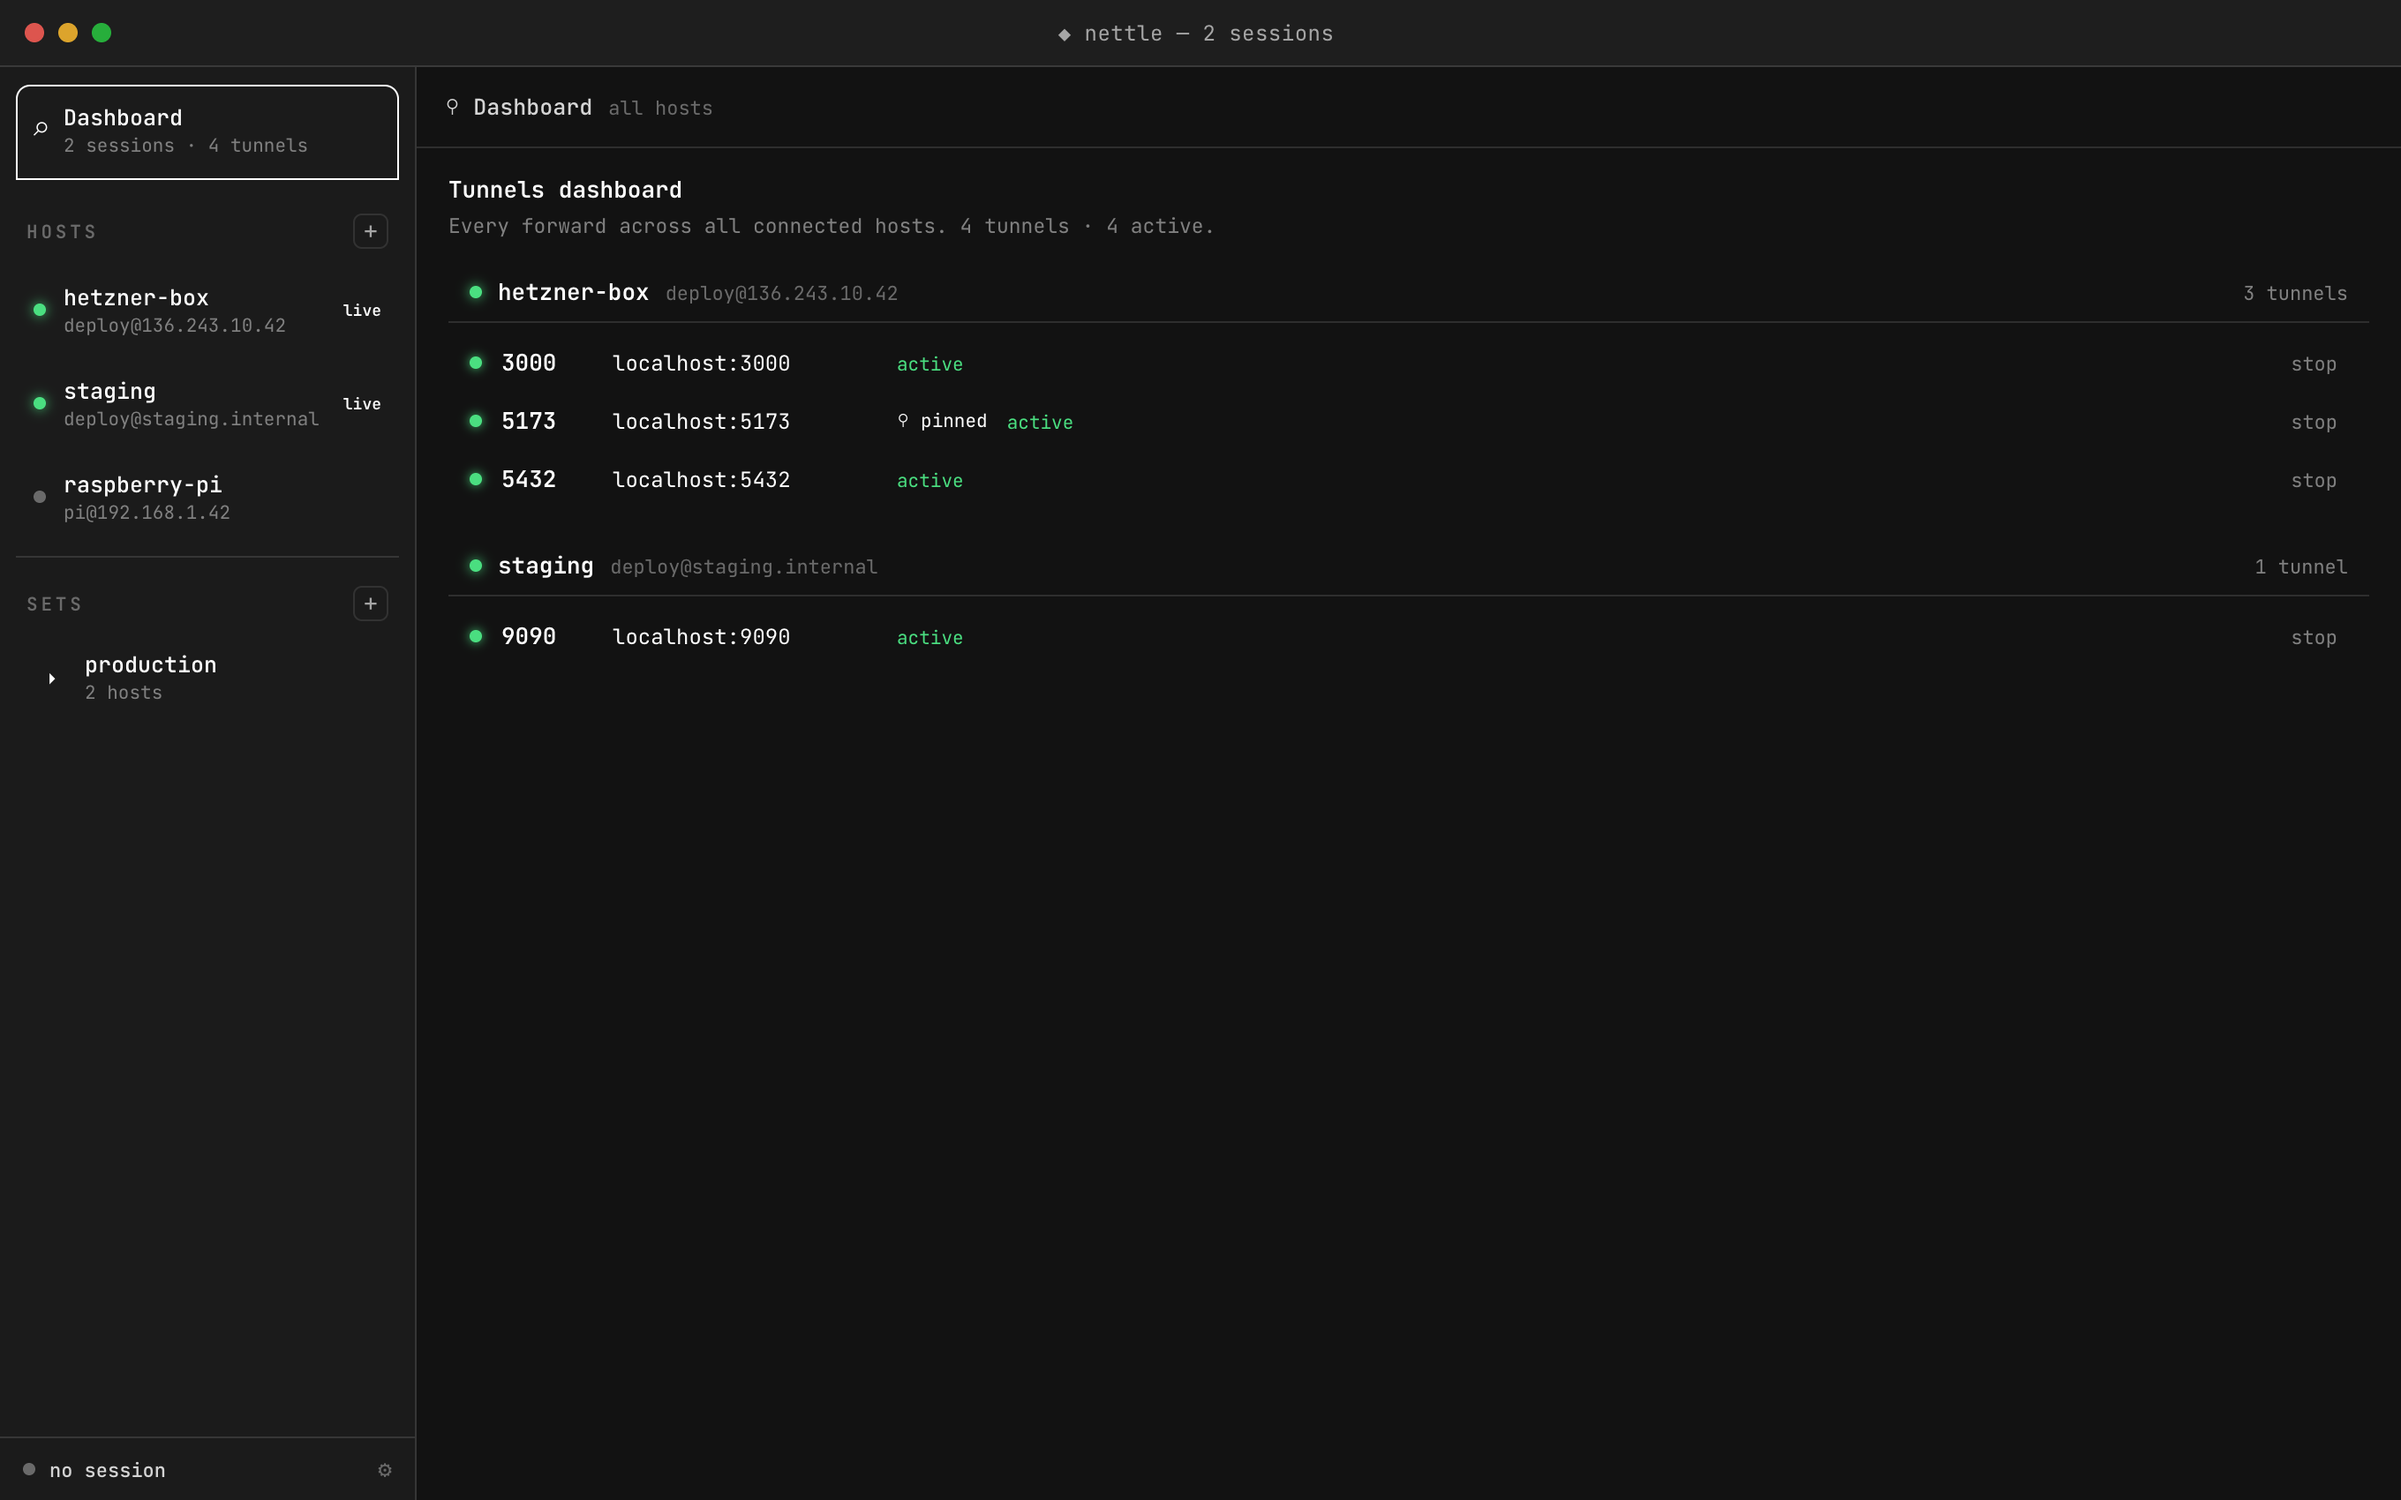
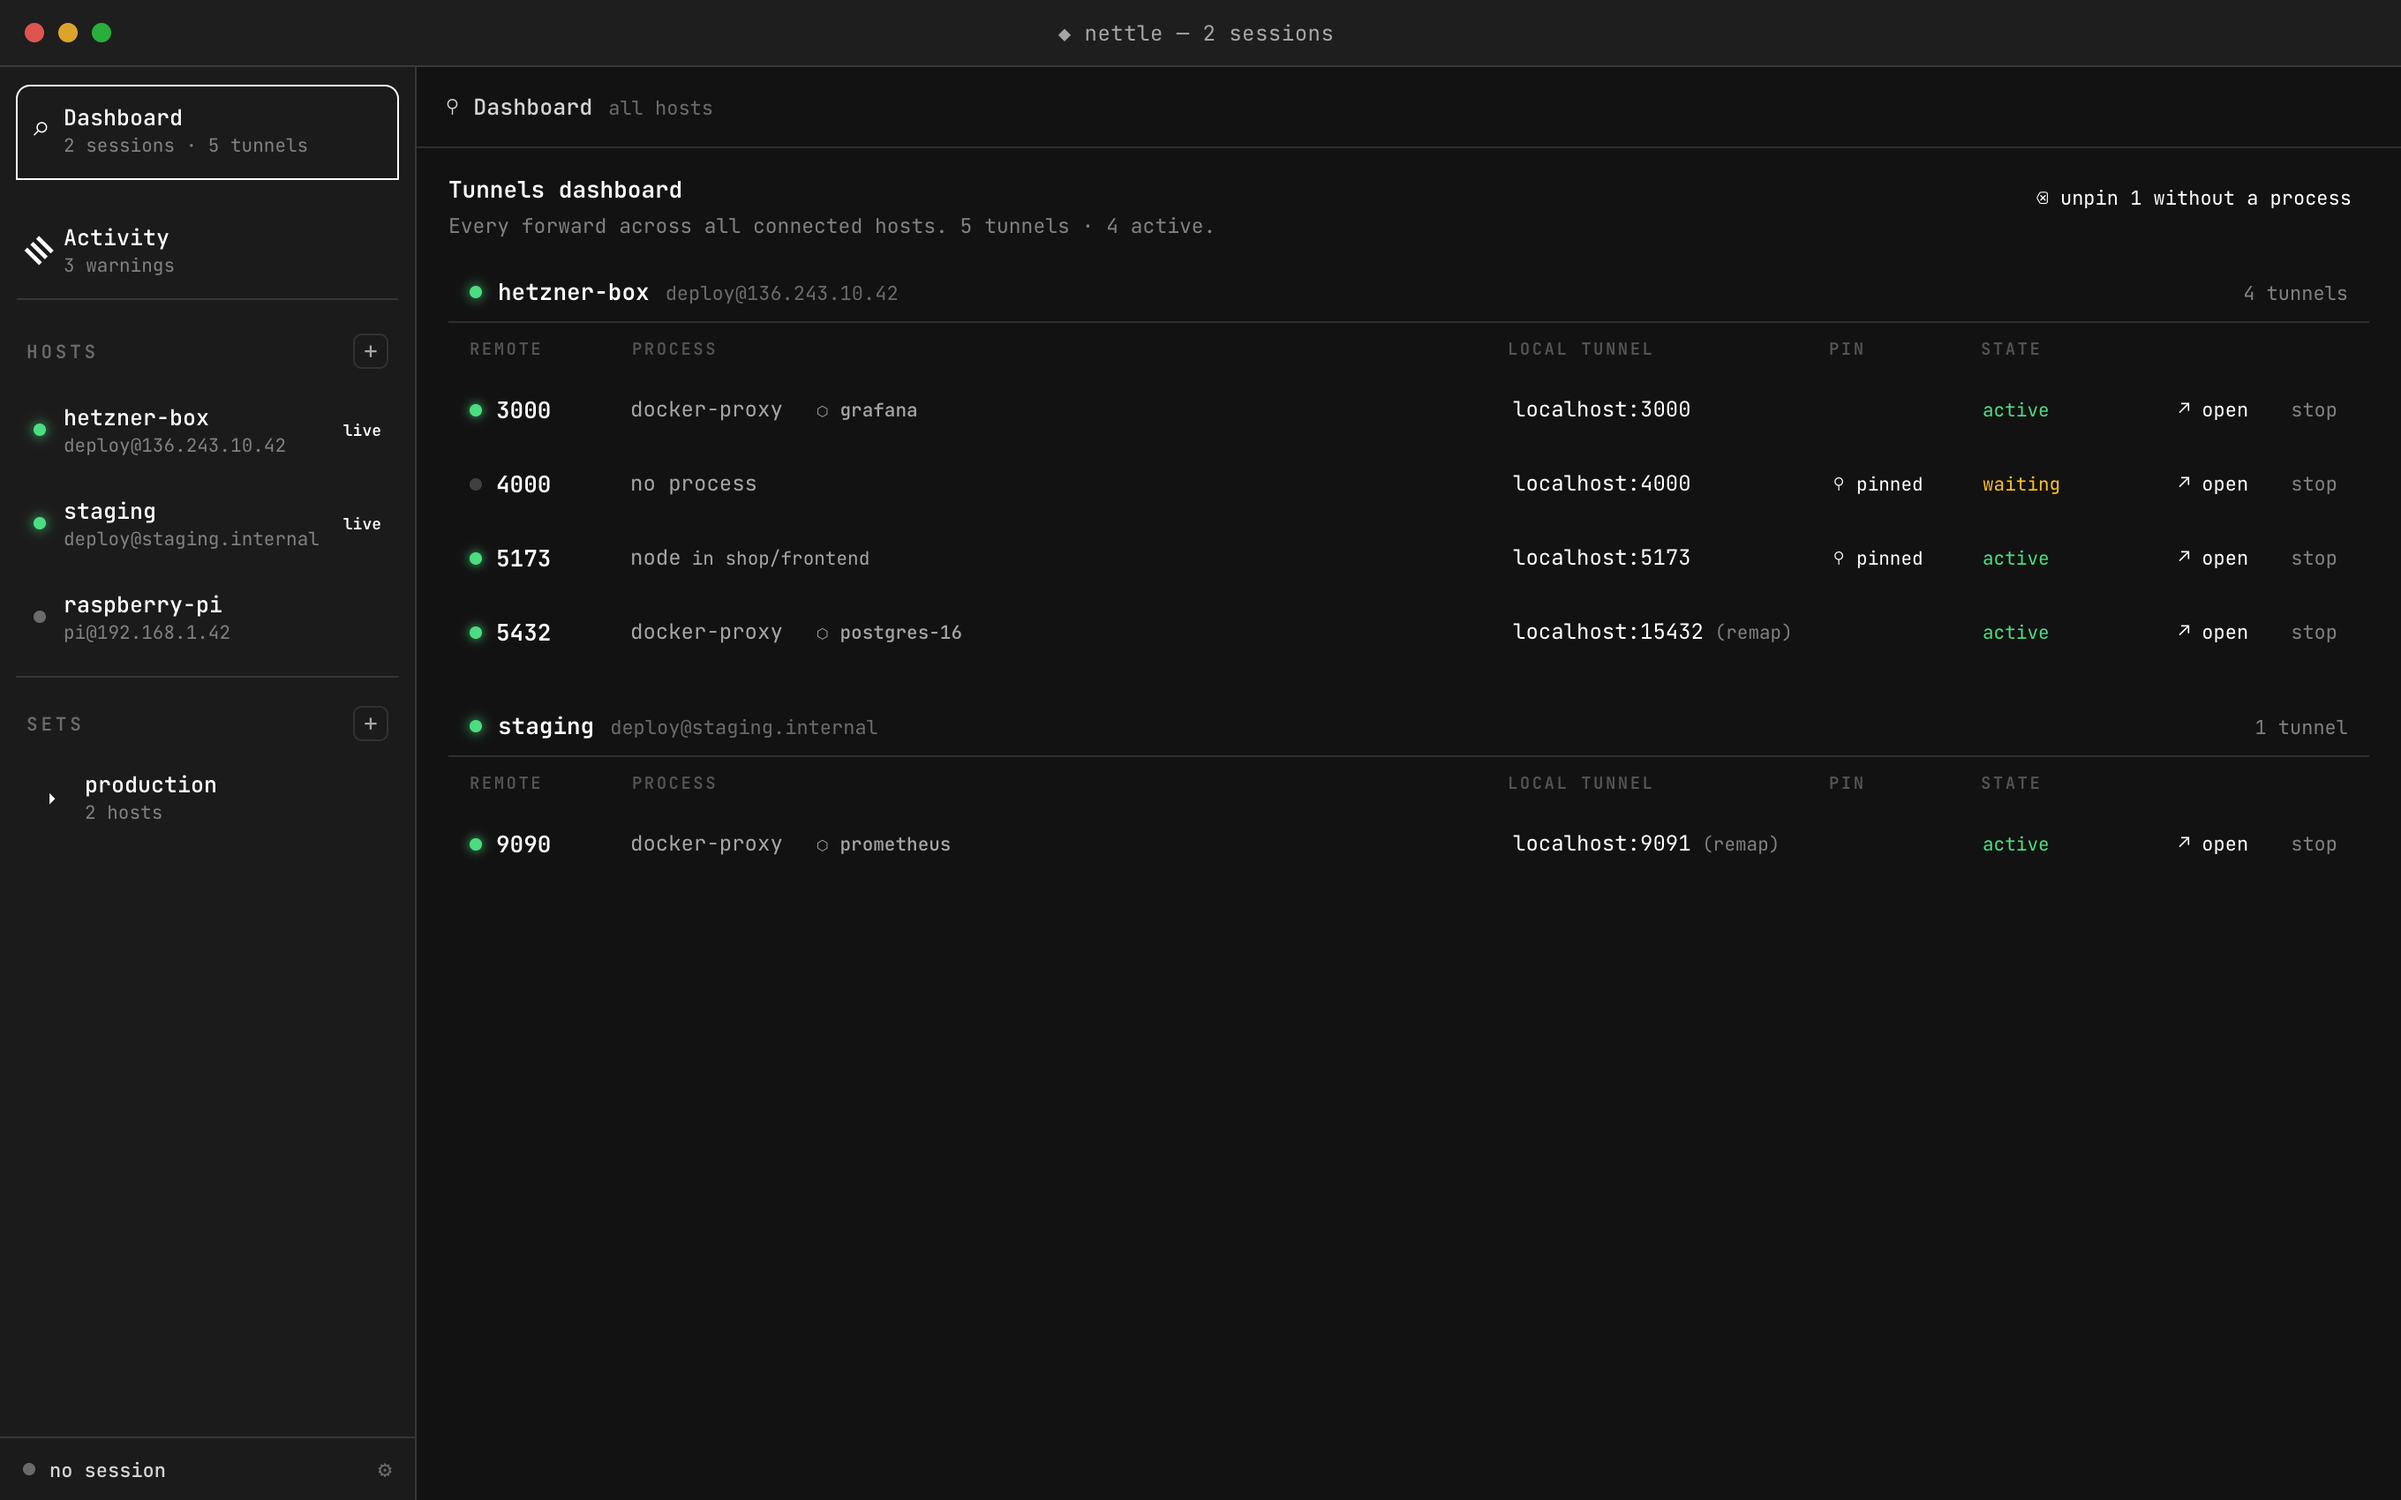
Refresh README screenshots for the new port tooling
Recaptured all shots showing the three-state ports table (state chips,
process working dirs, kill actions, labeled pin toggle), the tabular
dashboard with process info and open/stop, and a new activity-log
screenshot; README copy updated to match. Also widens the ports state
column so the "waiting for process" chip no longer overflows into the
tunnel column.

diff --git a/src/styles.css b/src/styles.css
@@ -2064,7 +2064,8 @@ body {
 
 /* ===== three-state ports table ===== */
 .pcol-state {
-  width: 128px;
+  /* fits the widest chip ("waiting for process") without overflowing */
+  width: 150px;
   flex: none;
 }
 .state-chip {

diff --git a/README.md b/README.md
@@ -5,14 +5,16 @@
 [![CI](https://github.com/gitu/nettle/actions/workflows/ci.yml/badge.svg)](https://github.com/gitu/nettle/actions/workflows/ci.yml)
 [![Release](https://github.com/gitu/nettle/actions/workflows/release.yml/badge.svg)](https://github.com/gitu/nettle/releases)
 
-![Port forwarding view: live remote ports with process names and docker container badges, a pinned tunnel, and one-click forwards](assets/screenshots/ports.png)
+![Port forwarding view: every remote port in one table with state chips (open on host / forwarded / waiting for process), process names with working directories and docker container badges, pinned tunnels, and kill/open/pin/forward actions](assets/screenshots/ports.png)
 
 nettle is a cross-platform desktop SSH client (macOS / Linux / Windows) built for
 day-to-day work against remote dev boxes:
 
 - **Live port discovery** — nettle watches which TCP ports are listening on the
-  remote (process name included) and shows them the moment they appear. A new
-  dev server pops a toast: *Forward & pin / Just once / Ignore*.
+  remote (process name and working directory included, so two `node` servers
+  are easy to tell apart) and shows them the moment they appear. A new dev server
+  pops a toast: *Forward & pin / Just once / Ignore*. Need the port back? Kill
+  the remote process right from the row (SIGTERM, or SIGKILL if it insists).
 - **Pinned tunnels that survive everything** — a pinned forward keeps its local
   listener alive across remote process restarts *and* SSH reconnects. Kill your
   remote `vite dev`, start it again, and `localhost:5173` just works — no clicks.
@@ -27,16 +29,21 @@ day-to-day work against remote dev boxes:
   keeps its own live terminal, tunnels, and transfers. Switching hosts leaves
   the others running (toggle off in About if you prefer one-at-a-time).
 - **Tunnels dashboard** — one overview of every forward across every connected
-  host, grouped by host, with live/waiting status and quick stop.
+  host, grouped by host, with process info, live/waiting status, open-in-browser
+  and quick stop — plus one-click cleanup of pins whose process is gone.
+- **Activity log** — an in-app log of everything nettle does (connections,
+  tunnels, port scans, kills), filterable by host and severity. Bind conflicts
+  surface as actionable errors with a known-free port to use instead.
 - **Connection sets** — name a group of hosts and bring them all up with one
   click (e.g. "production" = api + db + cache).
 - **Tray-first** — closing the window hides nettle to the menu bar / system
   tray; sessions and every pinned tunnel keep running in the background.
 
 <p>
-  <img alt="Real PTY terminal" src="assets/screenshots/terminal.png" width="32.8%" />
-  <img alt="Dual-pane file browser with transfer queue" src="assets/screenshots/files.png" width="32.8%" />
-  <img alt="Tunnels dashboard across all connected hosts" src="assets/screenshots/dashboard.png" width="32.8%" />
+  <img alt="Real PTY terminal" src="assets/screenshots/terminal.png" width="49.3%" />
+  <img alt="Dual-pane file browser with transfer queue" src="assets/screenshots/files.png" width="49.3%" />
+  <img alt="Tunnels dashboard across all connected hosts with process info and open/stop actions" src="assets/screenshots/dashboard.png" width="49.3%" />
+  <img alt="Activity log with per-host and per-level filters" src="assets/screenshots/activity.png" width="49.3%" />
 </p>
 
 ## Install
